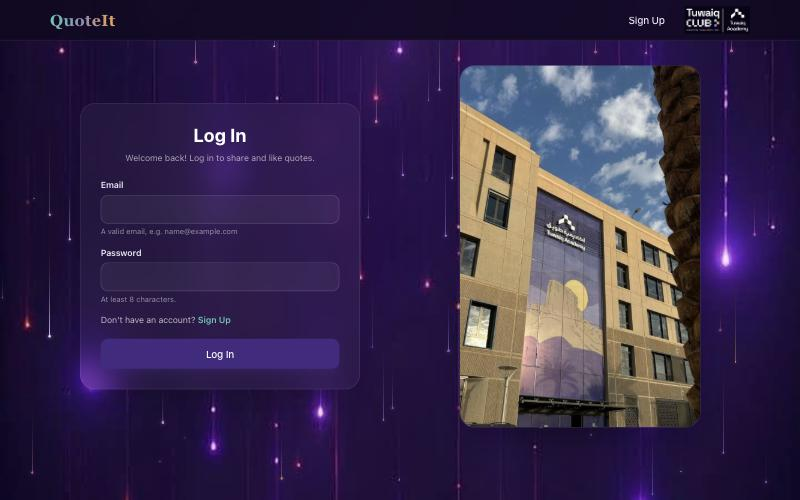
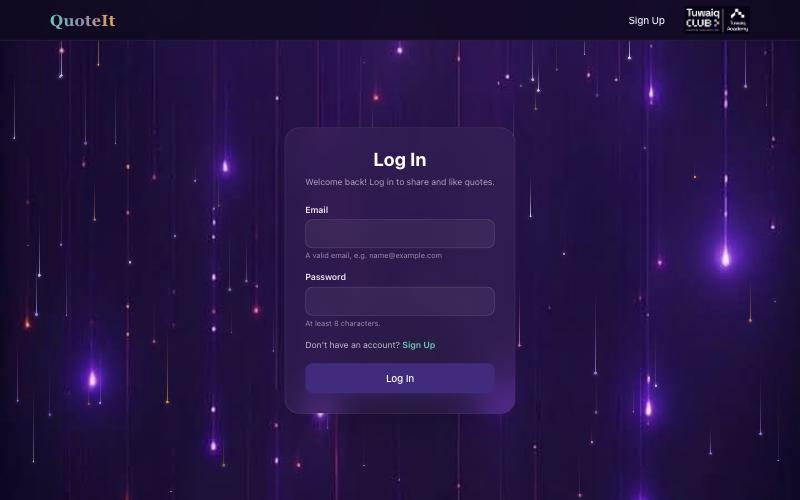
Remove the building photo from the sign up and log in pages
The forms are now centred on their own over the animated background.

diff --git a/resources/views/Layout/AuthImg.blade.php b/resources/views/Layout/AuthImg.blade.php
@@ -1,12 +1,3 @@
-
-<div class="mx-auto grid max-w-6xl grid-cols-1 items-center gap-8 px-4 py-10 md:grid-cols-2">
-
+<div class="mx-auto flex min-h-[calc(100vh-4rem)] max-w-6xl items-center justify-center px-4 py-10">
     @yield('form')
-    <div class="hidden md:block ">
-        <div class="hidden md:order-last md:flex md:items-center md:justify-center">
-            <img src="{{ asset('images/signup.jpeg') }}" alt="Sign Up"
-                class="w-full max-w-sm rounded-3xl object-cover shadow-2xl shadow-black/40 ring-1 ring-white/10">
-        </div>
-
-    </div>
 </div>

diff --git a/resources/views/Authentication/SignUp.blade.php b/resources/views/Authentication/SignUp.blade.php
@@ -48,7 +48,7 @@
                 </div>
               
                 <p class="mb-5 text-sm text-white/70">
-                   You Already have an account? <a href="{{ route('login') }}" class="font-semibold text-tuwaiq-teal hover:underline">Log In</a>
+                   Already have an account? <a href="{{ route('login') }}" class="font-semibold text-tuwaiq-teal hover:underline">Log In</a>
                 </p>
 
                 <button type="submit" class="btn-primary w-full py-3">Sign Up</button>
